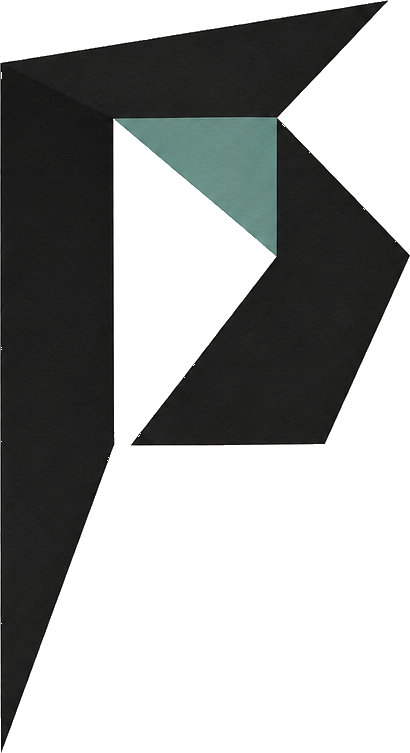
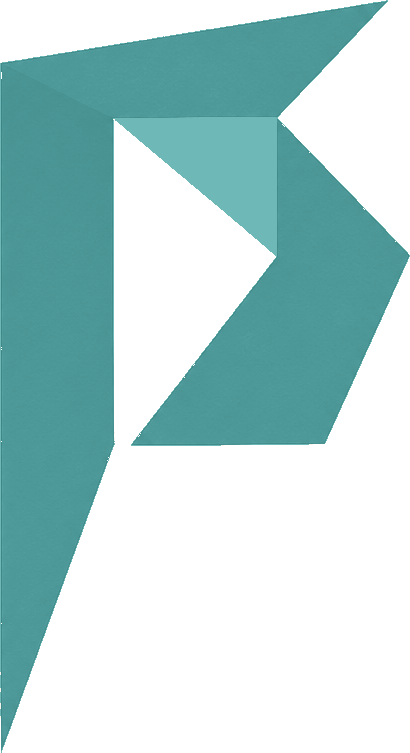
Recolor Paplyn folded-P mark to brand teal for light and dark UI
Apply the exact luminance-based teal recolor to paplyn-mark.png (410×753
RGBA, transparent corners unchanged). Sync paplyn-mark-dark.png to the same
asset so one mark works on both themes. Rebuild favicons from the recolored
mark on transparent squares. Use text-navy for the header wordmark on both
themes so the lockup stays teal P + teal text.

diff --git a/packages/web/src/components/plicum-wordmark.tsx b/packages/web/src/components/plicum-wordmark.tsx
@@ -48,7 +48,7 @@ export function PlicumWordmark({ className, priority }: PlicumWordmarkProps) {
         className="h-full w-auto shrink-0"
         aria-hidden
       />
-      <span className="font-serif text-[1.125em] font-semibold leading-none tracking-tight text-navy dark:text-ink">
+      <span className="font-serif text-[1.125em] font-semibold leading-none tracking-tight text-navy">
         {PRODUCT_NAME}
       </span>
     </span>
